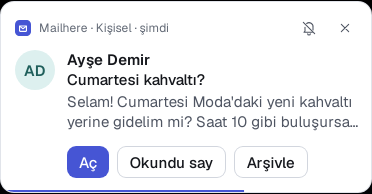
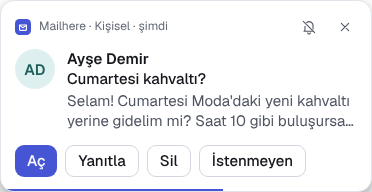
Belgeler: bildirim kartı düğmeleri, yanıt alanı ve onay satırı
- TASARIM §5.1: düğmeler, yerinde yanıt, onay/geri al satırı, hata ve
  ayar bölümü.
- GÜVENLİK: kart penceresinin izinleri; ortak bildirim düğmesi komutları.
- README: köşe kartı satırı ve yeni kart görüntüsü.

diff --git a/docs/TASARIM.md b/docs/TASARIM.md
@@ -129,7 +129,7 @@ Avatar; gönderici adresinden deterministik seçilen 9 tonlu paletten gelir (zem
 | Uzak içerik şeridi | koruma ikonu + "Uzak görseller ve izleme pikselleri engellendi" + "Bu göndericiye izin ver". |
 | Özgün renkler geçişi | gönderen satırında (hızlı okumada başlık çubuğunda) `contrast` ikonlu düğme; yalnız koyu temada ve HTML postada, `aria-pressed`; basılıyken `--accent-soft` zemin + `--accent-text`. Çerçeve yeniden yüklenmez, yalnız renkler değişir. |
 | Toast | ters renk (`--ink` zemin), alt ortada, "Geri al" eylemi, 5 sn. Kısayol ipucu (masaüstü): metnin yanında soluk "Kısayol" + ters renkli kısayol çipi. |
-| Bildirim kartı | 372 px, köşe 14, `--shadow-lg`; başlık satırı (logo, hesap, zaman, sessize al, kapat), avatar 40, gönderen / konu / 2 satır önizleme, eylemler Aç · Okundu say · Arşivle, altta 2 px geri sayım çizgisi (üzerine gelince durur). En çok 3 kart, fazlası "N posta daha" özeti. |
+| Bildirim kartı | 372 px, köşe 14, `--shadow-lg`; başlık satırı (logo, hesap, zaman, sessize al, kapat), avatar 40, gönderen / konu / 2 satır önizleme, eylemler Aç + seçilen en çok üç bildirim düğmesi (varsayılan Yanıtla · Sil · İstenmeyen), altta 2 px geri sayım çizgisi (üzerine gelince durur). Yerinde yanıt alanı, onay satırı ve hata: §5.1. En çok 3 kart, fazlası "N posta daha" özeti. |
 | Hızlı okuma | 440×700 pencere; başlık çubuğunda Üstte tut, Uygulamada aç, Kapat; altta hazır yanıt çipleri ve yanıt kutusu. |
 | Yazma | Kimden / Kime (çipler) / Konu alanları, sade biçim çubuğu, "Gönder" + "Sonra gönder" bölünmüş düğmesi, gönderdikten sonra 10 sn geri alma. |
 | Komut paleti | 620 px, üstte 19 px arama girdisi; bölümler Arama · Eylemler · Postalar · Kişiler; ok tuşları + Enter. Her komutun kısayolu sağda çip olarak yazar. Komutlar iki dilin adlarıyla ve eşanlamlılarla bulanık eşleşir (Türkçe harf ve aksan katlanır); boş palette sık kullanılanlar üstte. Eşleşen parça renkle değil 600 + alt çizgiyle. İşleç tamamlama: `from:` kişi, `after:` / `before:` hazır tarih (bugün, bu hafta, bu ay, son 30 gün), `hesap:` hesap önerir; değer boşken öneriler, yazılınca Enter arar, Tab ilk öneriyi yazar. |
@@ -138,6 +138,15 @@ Avatar; gönderici adresinden deterministik seçilen 9 tonlu paletten gelir (zem
 | Boş durum | ikon 56 px `--accent-soft` disk içinde (`--accent-text`, 26 px), başlık 19/600, gövde `--ink-3` en çok 32ch; liste ve mobil ekranlarda aynı. |
 
 Boş durumlar ve hatalar her zaman iki şey söyler: **ne oldu** ve **ne yapılabilir**.
+
+### 5.1 Bildirim kartı: düğmeler, yanıt, onay
+
+- **Düğmeler.** Birincil eylem "Aç" (doğrulama kodu postasında "Kodu kopyala" birincil, "Aç" ikincil). Yanında Ayarlar › Bildirimler › **Bildirim düğmeleri**'nde seçilen en çok üç düğme, sabit sırayla: Yanıtla · Okundu · Arşivle · Sil · İstenmeyen (varsayılan Yanıtla, Sil, İstenmeyen; hiçbiri seçilmezse yalnız "Aç"). Sıra kartın tam iç genişliğinde, tek satır, 32 px yumuşak düğmeler ve kısa etiketler; erişilebilir ad ve ipucu eylemi tam söyler ("Okundu say", "İstenmeyen olarak işaretle"), görünen etiketi içerir. Etiketler sığmazsa (kod kartı, uzun dil) seçilen düğmeler sağa toplanıp 32×32 ikon düğmeye iner (`reply`, `check`, `archive`, `trash`, `spam`); taşma ve kırpma yoktur. Android aynı seçimi bildirim düğmesi olarak gösterir; seçim cihaza özgüdür, aktarımla taşınmaz.
+- **Yanıt alanı.** "Yanıtla" kartı yerinde büyütür (pencere yüksekliği izler; kart penceresi odak çalmadan açılır, "Yanıtla"ya basınca odak alır): "Kime: …" 12 `--ink-2` (postada Reply-To varsa o), odaklanmış kutu 1 satırdan 4 satıra büyür (sonra içinde kayar), altta soluk "Ctrl Enter" ipucu, Vazgeç ve Gönder (kartın tek birincil düğmesi). Ctrl/Cmd Enter gönderir, Esc ve Vazgeç kapatır (yazılan kartta kalır, odak "Yanıtla"ya döner). Alan açıkken geri sayım yoktur, kart kendiliğinden kapanmaz. 200 ms saydamlık + 4 px kayma.
+- **Onay satırı.** Eylemden sonra kart tek satıra iner (başlık ve önizleme kalkar): `--ok` ikon (`check`; yanıtta `send`), 15/500 ne olduğu ("Silindi", "Arşivlendi", "Okundu sayıldı", "İstenmeyen'e taşındı") ve 12 `--ink-3` "gönderen · konu", "Geri al" (yumuşak, küçük) ve Kapat. 5 sn sonra kart kapanır (üzerine gelince durur). Geri al taşınanı gelen kutusuna, okunduyu okunmamışa döndürür ve kartı posta haline (geri sayım baştan) getirir. Yanıtta satır "Yanıt giden kutusunda" + "N sn içinde gider · Kime" der; süre giden kutusunun geri alma süresidir ve durmaz; Geri al gönderimi iptal eder, metin kutuya döner. Gönderim yetişmişse "Yanıt çoktan gitti …" bilgisi Geri al'sız kalır. Odak karttaysa "Geri al"a geçer (onay satırında odak geri sayımı durdurmaz).
+- **Hata.** Kartın içinde `alert` ikonu (`--danger`) + 12 `--ink-2` "Olmadı: …" (ne oldu + ne yapılabilir; ör. "Bu hesapta İstenmeyen klasörü yok. Postayı uygulamada aç ve bir klasöre taşı."), `role="alert"`. Hata yazan kart kendiliğinden kapanmaz; yanıtta metin kutuda kalır.
+- **Geri sayım** posta halinde üzerine gelince ya da klavye odağı karttayken durur. Yanıt yazılan ya da geri alma bekleyen kart, yeni kartlar gelince "N posta daha" özetine düşmez.
+- **Ayar.** Ayarlar › Bildirimler › Bildirim düğmeleri: beş anahtar (ikon, ad, kısa açıklama), satırın tamamı etiket; üçü seçiliyken diğerleri devre dışı ve altında "Üç düğme seçili. Başka birini seçmek için önce birini kapat." (`role="status"`). Masaüstünde altında kartın düğme sırasının önizlemesi ("Kartta"); mobilde 56 px satırlar, ayraç etiket hizasından.
 
 ## 6. Hareket
 

diff --git a/docs/GUVENLIK.md b/docs/GUVENLIK.md
@@ -37,7 +37,7 @@ Son denetim: 2026-10-13 (beş alanda kod denetimi; bulgular doğrulanıp düzelt
 - Abonelikten çıkma yalnız kullanıcı isteyince yapılır. Tek tık isteği (RFC 8058) yalnız genel internetteki bir HTTPS adresine gider: sunucu adı önce çözülür, adreslerden biri bile bu bilgisayarı ya da yerel ağı (loopback, özel, link-local, ULA, CGNAT, çoklu yayın, belirtilmemiş) gösteriyorsa istek gönderilmez; bağlantı yalnız denetlenen adreslere, vekil sunucusuz kurulur. Çerez, Referer ve kimlik bilgisi gönderilmez, yönlendirme izlenmez, 10 sn zaman aşımı. `mailto:` ile çıkmada posta tek adrese, postayı alan hesaptan gider; başlık `List-Unsubscribe` değerleri sınırlı ve denetimli ayrıştırılır.
 
 **Uygulama kabuğu**
-- Her pencere yalnız kullandığı komutları çağırabilir (`src-tauri/capabilities/*.json`, `build.rs`). Bildirim kartı ve hızlı okuma ayar, hesap ve sertifika komutlarına erişemez. Hızlı okuma ayarlardan yalnız hızlı yanıtları yazabilir (`quick_replies_set`; temizlenir, en çok 8 × 120 karakter).
+- Her pencere yalnız kullandığı komutları çağırabilir (`src-tauri/capabilities/*.json`, `build.rs`). Bildirim kartı ve hızlı okuma ayar, hesap ve sertifika komutlarına erişemez; kart yalnız bildirim düğmelerinin işini (okundu, taşıma, yanıt ve geri alma) yapabilir ve yanıt alanının "Kime" satırı için yanıtlanan postayı okuyabilir. Hızlı okuma ayarlardan yalnız hızlı yanıtları yazabilir (`quick_replies_set`; temizlenir, en çok 8 × 120 karakter).
 - Postaya yalnız kullanıcının işletim sisteminin dosya penceresinde seçtiği dosyalar eklenebilir. Arayüz kendi yol yazamaz.
 - Pencereler uygulama dışı adrese yönlendirilemez. Dış bağlantılar yalnız `http`, `https` ve `mailto` ile, varsayılan tarayıcıda açılır.
 - Deneme anahtarları (`MAILHERE_DEMO`, `MAILHERE_SECRETS=memory`) ve OAuth kimliğini çalışırken değiştirme yalnız geliştirme derlemesinde çalışır.
@@ -75,7 +75,7 @@ Son denetim: 2026-10-13 (beş alanda kod denetimi; bulgular doğrulanıp düzelt
 Android kabuğu ayrı depoda (`mailheremobile`) derlenir; ortak çekirdek (`crates/*`, `crates/mh-app`) aynıdır. Cihazda henüz doğrulanmamış maddeler **(doğrulanacak)** diye işaretlidir.
 
 - Çekirdek ayrımı: masaüstüne özgü parçalar (anahtar zinciri, tepsi, bildirim kartı penceresi, güncelleyici, tek örnek) kabuk crate'indedir; `crates/mh-app` bunları bağlamaz. Platforma göre değişen işler `Platform` trait'inden geçer, ortak kod pencere ya da dosya sistemine doğrudan dokunmaz.
-- Komut listesi tek kaynaktan gelir (`shared_commands!`, `SHARED_COMMANDS`, `commands.txt`); mobil kabuk masaüstü komutlarını (`open_quick`, `notify_*`, `demo_notify`, `update_*`) bağlamaz. Her kabuğun `capabilities/*.json` dosyası yalnız kendi komutlarına izin verir.
+- Komut listesi tek kaynaktan gelir (`shared_commands!`, `SHARED_COMMANDS`, `commands.txt`); mobil kabuk masaüstü komutlarını (`open_quick`, kart penceresinin `notify_layout` / `notify_hide` / `notify_focus` / `notify_pending`, `demo_notify`, `update_*`) bağlamaz; bildirim düğmeleri (`notify_action`, `notify_reply`) ortaktır. Her kabuğun `capabilities/*.json` dosyası yalnız kendi komutlarına izin verir.
 - Pencere yalnız uygulamanın kendi adreslerinde kalır; geliştirme sunucusu adresine yalnız geliştirme derlemesinde ve yapılandırmadaki `devUrl` ana makinesi için izin verilir.
 - Veri yolları uygulamanın özel klasörleri (`app_local_data_dir`, `app_cache_dir`); veritabanı yine SQLCipher ile şifreli, dosya izinleri aynı (0700 / 0600).
 - Parola, OAuth yenileme jetonu ve veritabanı anahtarı `AndroidKeyStore` ile korunan kasada: donanım destekli AES-256-GCM anahtarı, 12 baytlık rastgele IV, anahtar adı AAD; şifreli değerler `mailhere-kasa.xml` tercih dosyasında. Kasaya yalnız Rust tarafı (`SecretStore` köprüsü) erişir.

diff --git a/README.md b/README.md
@@ -15,7 +15,7 @@ Yeni posta geldiğinde koca bir pencere açılmaz: ekranın köşesinde küçük
 ## Öne çıkanlar
 
 - **Telefona tek QR ile aktar** — Ayarlar › Cihazlar: hesaplar, kurallar, etiketler ve ayarlar (istersen parolalar) Android uygulamasına uçtan uca şifreli, yalnız yerel ağ üzerinden geçer; hiçbir sunucuya uğramaz.
-- **Köşe kartı ve hızlı okuma** — bildirimler yalnız kişilerden gelen postada çıkar; bülten ve otomatik bildirimler tepsideki sayaçta kalır. Sessiz saatler, bir saat sessize alma, kart konumu ve süresi ayarlanır.
+- **Köşe kartı ve hızlı okuma** — bildirimler yalnız kişilerden gelen postada çıkar; bülten ve otomatik bildirimler tepsideki sayaçta kalır. Kartta "Aç"ın yanında seçtiğin en çok üç düğme durur (Yanıtla, Okundu, Arşivle, Sil, İstenmeyen; Android bildiriminde de): kısa yanıt kartın içinde yazılıp gönderilir, her eylem birkaç saniye geri alınabilir. Sessiz saatler, bir saat sessize alma, kart konumu ve süresi ayarlanır.
 - **Akıllı süzgeç** — gelen kutusu Kişiler, Bildirimler ve Bültenler diye kendiliğinden ayrılır.
 - **Klavye önce** — `J/K` gezin, `E` arşivle, `H` ertele, `R` yanıtla, `Ctrl K` her şeyi bul.
 - **Geri alınabilir her şey** — arşivleme, silme, erteleme ve gönderme birkaç saniye geri alınabilir.
